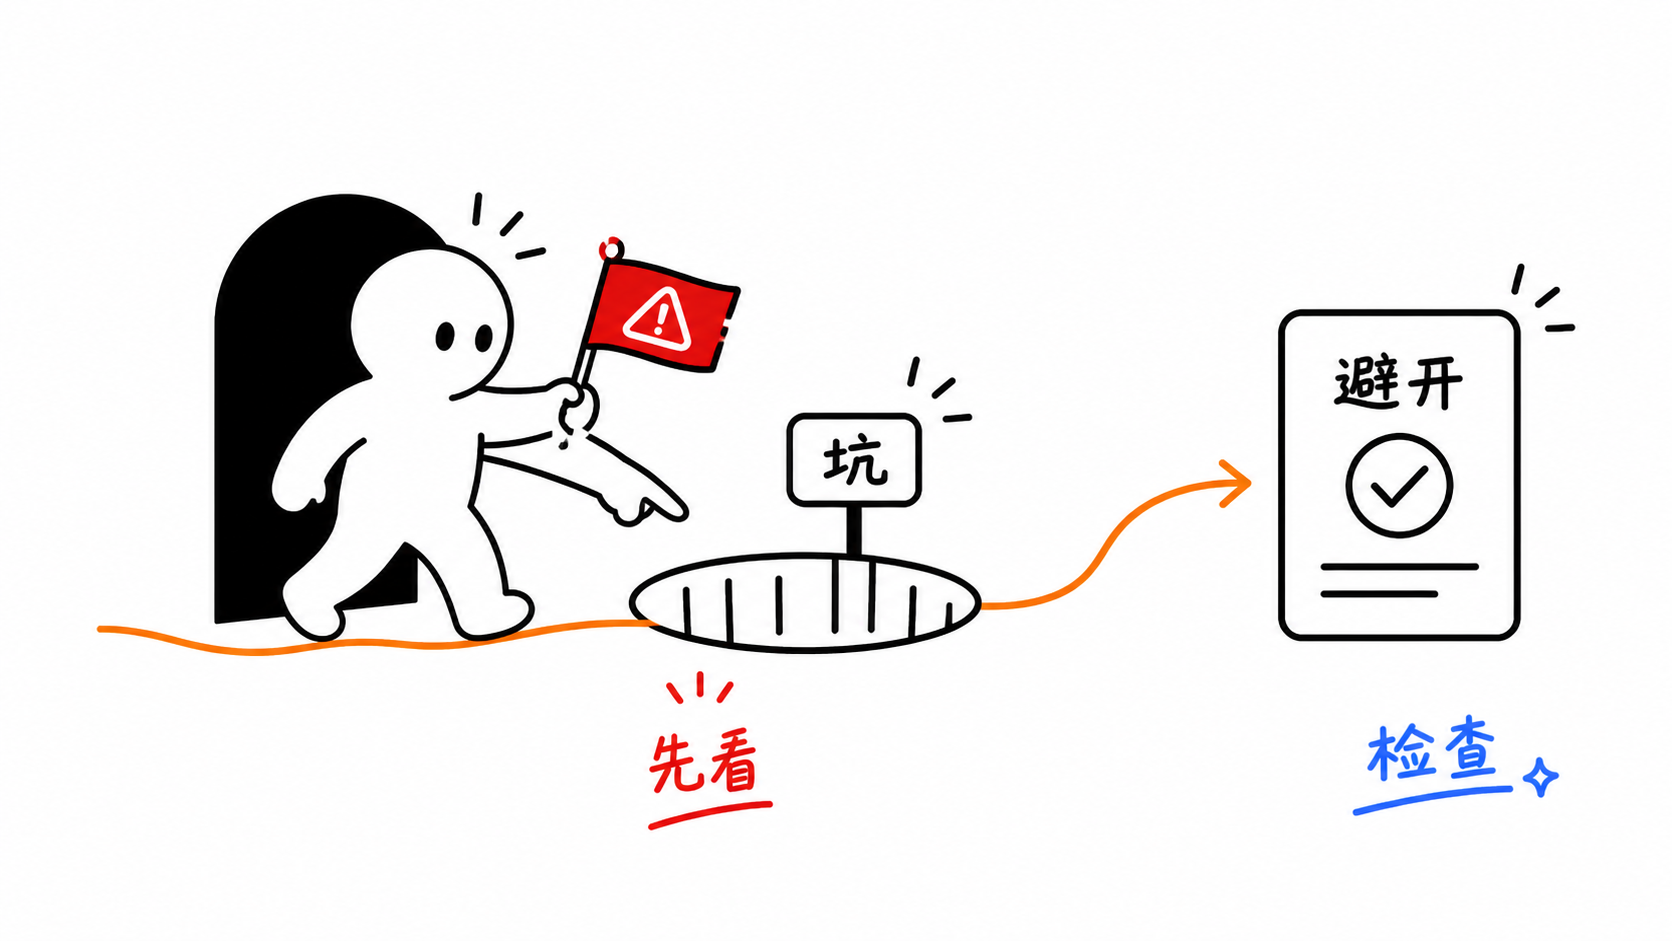
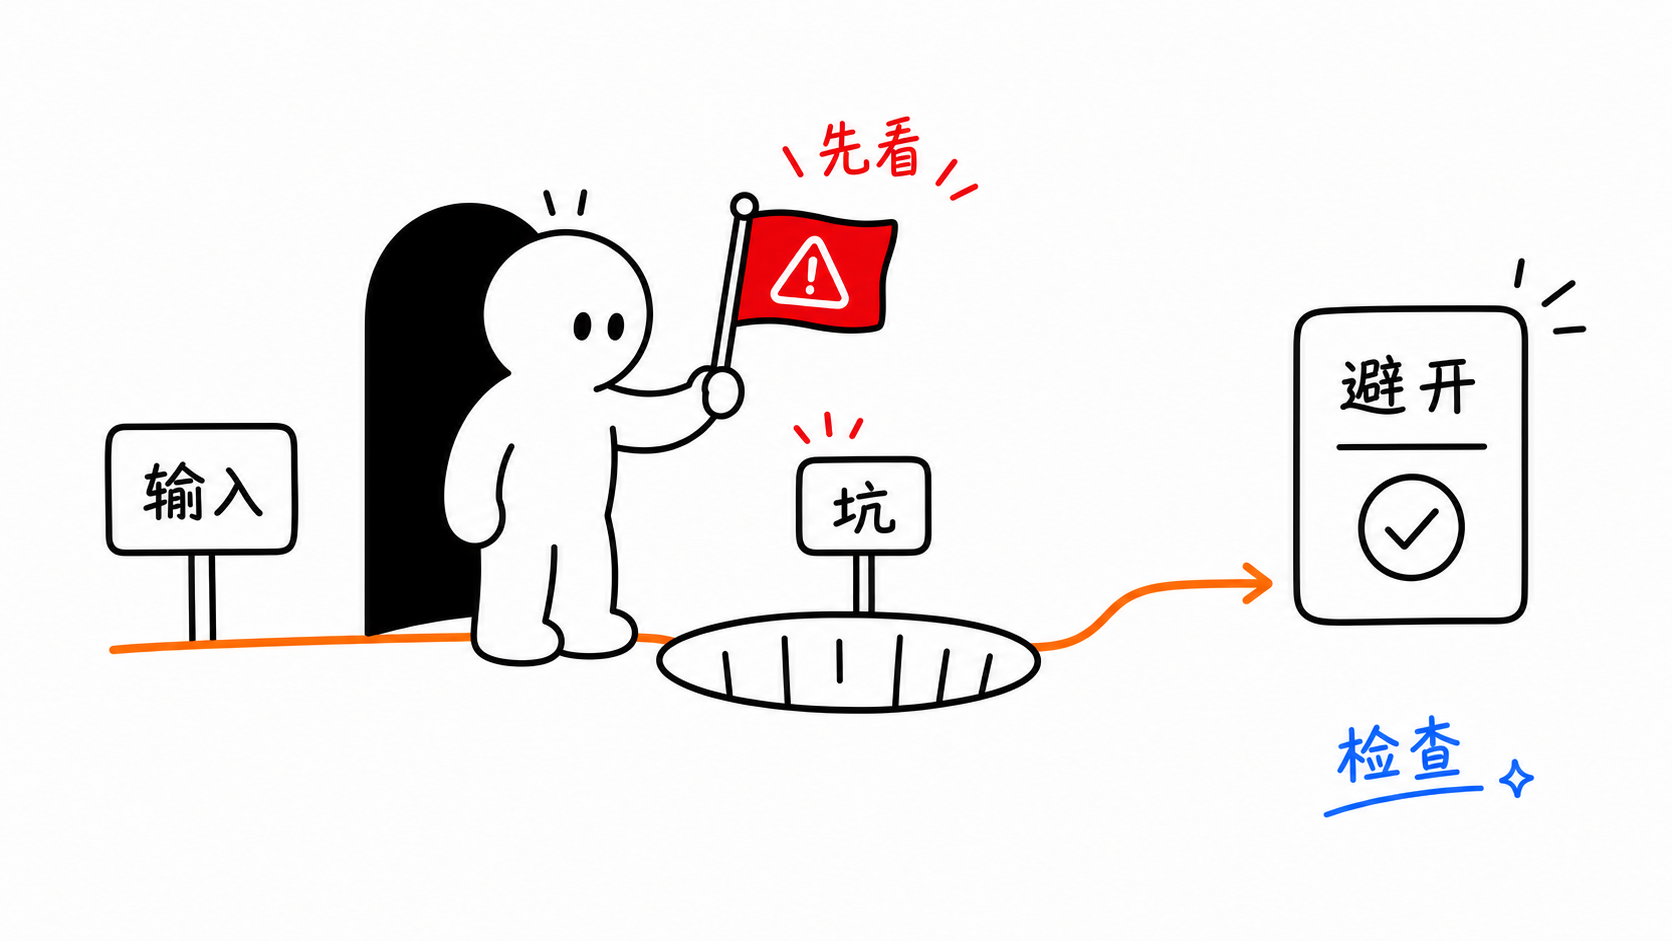
Fix Ailuren hand pose constraints

diff --git a/ailuren-illustrations/references/prompt-template.md b/ailuren-illustrations/references/prompt-template.md
@@ -9,7 +9,7 @@ Visual DNA:
 Pure white background. Minimalist black hand-drawn line art. Slightly wobbly pen lines. Lots of empty white space. Sparse red/orange/blue handwritten Chinese annotations. Clean slightly-absurd product-sketch feeling. No gradients, no paper texture, no complex background, no commercial vector style, no PPT infographic look, no cute mascot poster, no children's illustration, no realistic UI.
 
 Recurring IP character required:
-Ai路人, a simple white rounded humanoid passerby character with a round head, smooth connected body, rounded arms and legs, no clothes, no mouth, no nose, and two black vertical oval eyes. Ai路人 must perform the core conceptual action, not decorate the scene. On the white background, keep the white body visible with a clear black outline and an optional local black backdrop / portal / shadow patch behind the character. Make Ai路人 quiet, curious, serious, deadpan, and slightly strange, not cute, not a robot, not an astronaut, not a toy.
+Ai路人, a simple white rounded humanoid passerby character with a round head, smooth connected body, exactly two rounded arms, exactly two rounded legs, no fingers, no clothes, no mouth, no nose, and two black vertical oval eyes. Ai路人 must perform the core conceptual action, not decorate the scene. On the white background, keep the white body visible with a clear black outline and an optional local black backdrop / portal / shadow patch behind the character. Make Ai路人 quiet, curious, serious, deadpan, and slightly strange, not cute, not a robot, not an astronaut, not a toy.
 
 Theme:
 {正文配图主题}
@@ -33,7 +33,7 @@ Color use:
 Black for continuous hand-drawn line art, labels, structure, Ai路人的 oval eyes / outline, and optional local black backdrop. White for Ai路人的 body and background. Orange for main flow/path/arrows. Red only for key warnings/problems/results. Blue only for secondary notes or feedback/system state. No gray anywhere. No dashed lines or dotted lines.
 
 Constraints:
-One image explains only one core structure. Keep the main subject around 40%-60% of the canvas. Preserve at least 35% blank white space. Use at most 5-8 short handwritten Chinese labels. Do not write a title in the top-left corner. Do not write the structure type on the image. Do not make it a formal diagram, course slide, or dense explainer. Do not make Ai路人 black, over-detailed, cute, toy-like, robotic, or dressed. Do not use gray lines, gray fills, gray shadows, dashed lines, dotted lines, engineering guide lines, or sketch construction lines. Do not copy prior examples or reuse known case compositions unless explicitly requested; invent a fresh visual metaphor for this specific article. It should be clear but not instructional, interesting but not childish, strange but clean.
+One image explains only one core structure. Keep the main subject around 40%-60% of the canvas. Preserve at least 35% blank white space. Use at most 5-8 short handwritten Chinese labels. Do not write a title in the top-left corner. Do not write the structure type on the image. Do not make it a formal diagram, course slide, or dense explainer. Do not make Ai路人 black, over-detailed, cute, toy-like, robotic, or dressed. Do not add extra hands, extra arms, fingers, pointing hands, overlapping hands, or complex hand poses. Do not use gray lines, gray fills, gray shadows, dashed lines, dotted lines, engineering guide lines, or sketch construction lines. Do not copy prior examples or reuse known case compositions unless explicitly requested; invent a fresh visual metaphor for this specific article. It should be clear but not instructional, interesting but not childish, strange but clean.
 ```
 
 ## 图像编辑提示

diff --git a/ailuren-illustrations/references/ailuren-ip.md b/ailuren-illustrations/references/ailuren-ip.md
@@ -19,6 +19,8 @@ Ai路人是这个中文正文配图 Skill 的固定视觉 IP。
 - 两只黑色竖椭圆眼睛。
 - 没有嘴、鼻子、耳朵、头发和表情线。
 - 四肢圆润，手脚像软圆端点，不画手指和鞋子。
+- 只能有两条手臂、两条腿；不能多出手、手臂、手指或重叠的备用手。
+- 手臂动作要单一清楚；一只手不要同时拿东西又指向别处。
 - 常见姿态是正在走路、跨步、伸手、推、拉、搬、接、递。
 - 轮廓干净柔和，可以有轻微手绘抖动，但不要变成毛绒、黏土或儿童玩具。
 - 在白底图里必须用清楚黑色轮廓和局部黑色托底区分白色身体和背景。
@@ -50,6 +52,7 @@ Ai路人是这个中文正文配图 Skill 的固定视觉 IP。
 - 不要画成黑色小怪物。
 - 不要画成儿童卡通、表情包、玩偶、机器人或宇航员。
 - 不要添加衣服、帽子、鞋子、复杂五官、闪亮眼睛或大笑表情。
+- 不要添加额外手臂、额外手、手指、指向手势或复杂手部动作。
 - 不要让 Ai路人只是站在角落里看。
 - 不要让角色抢走结构表达，角色动作必须服务核心意思。
 - 不要把角色画得过于商业吉祥物、3D 潮玩、毛绒或可爱。

diff --git a/ailuren-illustrations/references/qa-checklist.md b/ailuren-illustrations/references/qa-checklist.md
@@ -24,6 +24,7 @@
 - 左上角有“常见坑 / Workflow / 系统架构图 / 路线图”等标题。
 - Ai路人像吉祥物、表情包、可爱卡通、机器人、宇航员或潮玩。
 - Ai路人被画成黑色角色，或加了衣服、嘴、鼻子、头发、鞋子。
+- Ai路人多出手、手臂、手指，或一只手同时做多个动作。
 - 白色角色在白底里看不清。
 - 画面像 PPT、课程课件、正式流程图。
 - 元素太多、箭头太多、节点太多。
